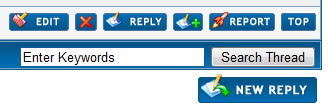
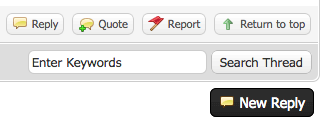
1.8 compatibility, language file added

diff --git a/files/inc/plugins/returntotop.php b/files/inc/plugins/returntotop.php
@@ -1,8 +1,8 @@
 <?php
 /**
- * Return to top button 1.6
+ * Return to top postbit button 1.8
 
- * Copyright 2010 Matthew Rogowski
+ * Copyright 2014 Matthew Rogowski
 
  * Licensed under the Apache License, Version 2.0 (the "License");
  * you may not use this file except in compliance with the License.
@@ -29,35 +29,45 @@ function returntotop_info()
 	return array(
 		"name" => "Return to top postbit button",
 		"description" => "Adds a 'Return to Top' button to the postbit.",
-		"website" => "http://mattrogowski.co.uk",
-		"author" => "MattRogowski",
+		"website" => "https://github.com/MattRogowski/Return-to-top-postbit-button",
+		"author" => "Matt Rogowski",
 		"authorsite" => "http://mattrogowski.co.uk",
-		"version" => "1.6",
-		"compatibility" => "16*",
+		"version" => "1.8",
+		"compatibility" => "16*,18*",
 		"guid" => "e17bff92da3df398d9d45a467afdd8f1"
 	);
 }
 
 function returntotop_activate()
 {
-	global $db;
+	global $mybb, $db;
 	
 	require_once MYBB_ROOT . "inc/adminfunctions_templates.php";
 	
 	returntotop_deactivate();
 	
 	$templates = array();
-	$templates[] = array(
-		"title" => "returntotop",
-		"template" => "<a href=\"#top\"><img src=\"{\$mybb->settings[\'bburl\']}/{\$theme[\'imgdir\']}/{\$lang->language}/postbit_top.gif\" border=\"0\" alt=\"Return to top\" /></a>"
-	);
+	if(substr($mybb->version, 0, 3) == '1.6')
+	{
+		$templates[] = array(
+			"title" => "returntotop",
+			"template" => "<a href=\"#top\"><img src=\"{\$mybb->settings['bburl']}/{\$theme['imgdir']}/{\$lang->language}/postbit_top.gif\" border=\"0\" alt=\"{\$lang->returntotop}\" /></a>"
+		);
+	}
+	elseif(substr($mybb->version, 0, 3) == '1.8')
+	{
+		$templates[] = array(
+			"title" => "returntotop",
+			"template" => "<a href=\"#top\" title=\"{\$lang->returntotop}\" class=\"postbit_top\"><span style=\"background-image: url('{\$theme['imgdir']}/top.png');\">{\$lang->returntotop}</span></a>"
+		);
+	}
 	foreach($templates as $template)
 	{
 		$insert = array(
-			"title" => $template['title'],
-			"template" => $template['template'],
+			"title" => $db->escape_string($template['title']),
+			"template" => $db->escape_string($template['template']),
 			"sid" => "-1",
-			"version" => "1600",
+			"version" => "1800",
 			"dateline" => TIME_NOW
 		);
 		$db->insert_query("templates", $insert);
@@ -86,6 +96,9 @@ function returntotop_deactivate()
 function returntotop(&$post) 
 {	
 	global $mybb, $lang, $theme, $templates;
+
+	$lang->load('returntotop');
+
 	eval("\$post['returntotop'] = \"".$templates->get('returntotop')."\";");
 }
 ?>

diff --git a/files/inc/languages/english/returntotop.lang.php b/files/inc/languages/english/returntotop.lang.php
@@ -1,0 +1,21 @@
+<?php
+/**
+ * Return to top postbit button 1.8 - Language File
+
+ * Copyright 2014 Matthew Rogowski
+
+ * Licensed under the Apache License, Version 2.0 (the "License");
+ * you may not use this file except in compliance with the License.
+ * You may obtain a copy of the License at
+
+ ** http://www.apache.org/licenses/LICENSE-2.0
+
+ * Unless required by applicable law or agreed to in writing, software
+ * distributed under the License is distributed on an "AS IS" BASIS,
+ * WITHOUT WARRANTIES OR CONDITIONS OF ANY KIND, either express or implied.
+ * See the License for the specific language governing permissions and
+ * limitations under the License.
+**/
+
+$l['returntotop'] = 'Return to top';
+?>
